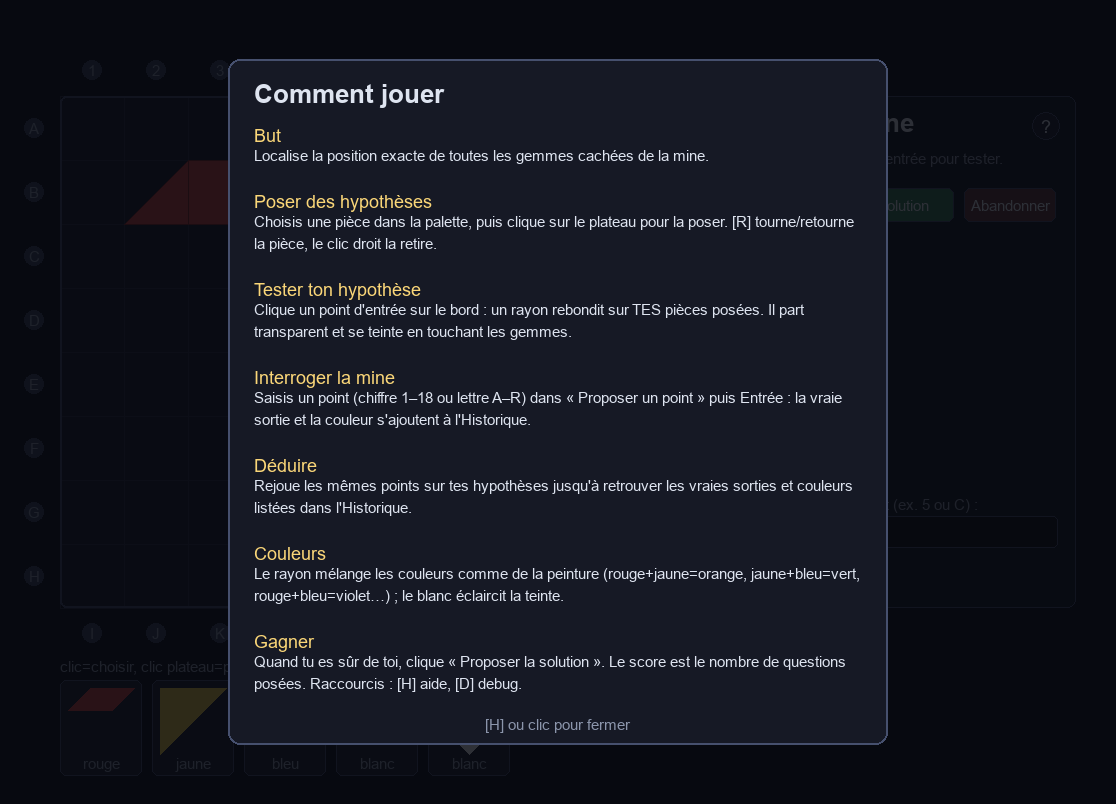
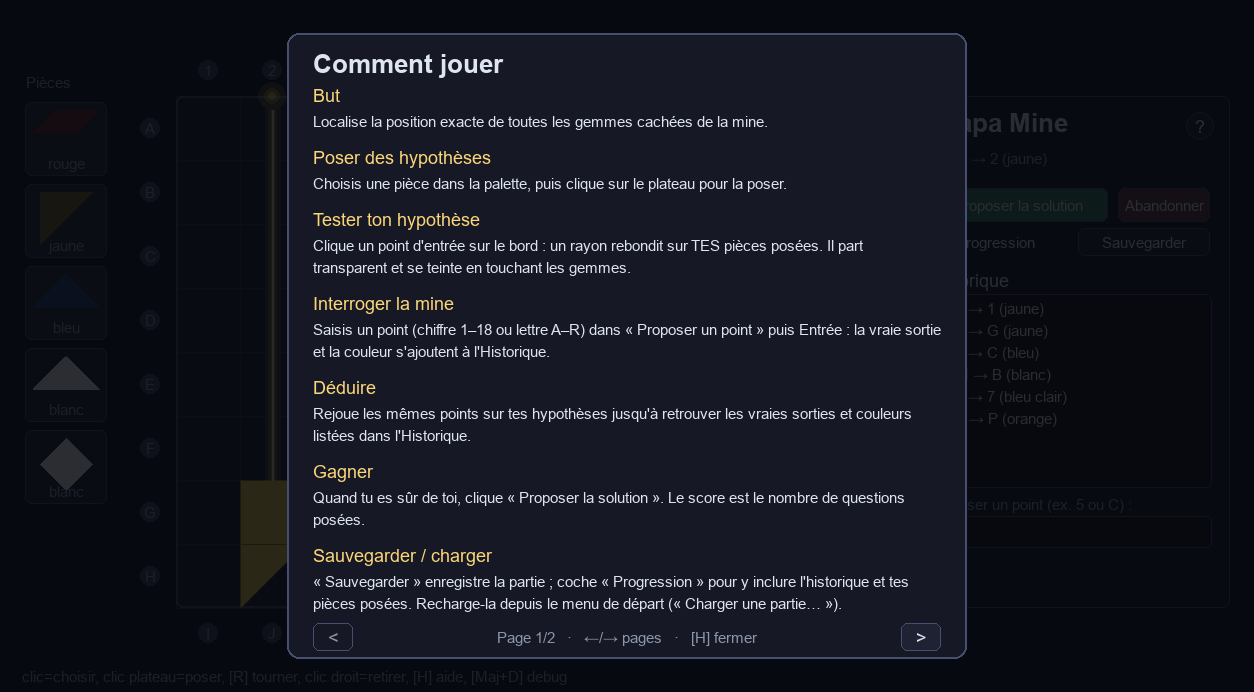
Docs : met à jour les aperçus et ajoute celui du mode créateur (#17)
Régénère les captures (menu, écran de jeu, aide, fin) pour refléter l'UI
actuelle (palette à gauche, mise en page adaptative, aide sur deux colonnes) et
ajoute `apercu_createur.png` pour le mode créateur (affiché dans le README).

diff --git a/README.md b/README.md
@@ -65,6 +65,8 @@ posées, sans gemmes collées ni entièrement cachées — la validité est vér
 direct. Tu peux alors **sauvegarder** ta configuration pour la **partager**
 (n'importe qui peut la rejouer via **Charger…**) ou la **jouer** directement.
 
+![Aperçu du mode créateur](docs/apercu_createur.png)
+
 Raccourcis en jeu : **[H]** aide, **[S]** sauvegarder, **[Maj+D]** révéler les
 gemmes (debug), **[R]** tourner une pièce, clic droit retirer, **Échap**
 désélectionner.
